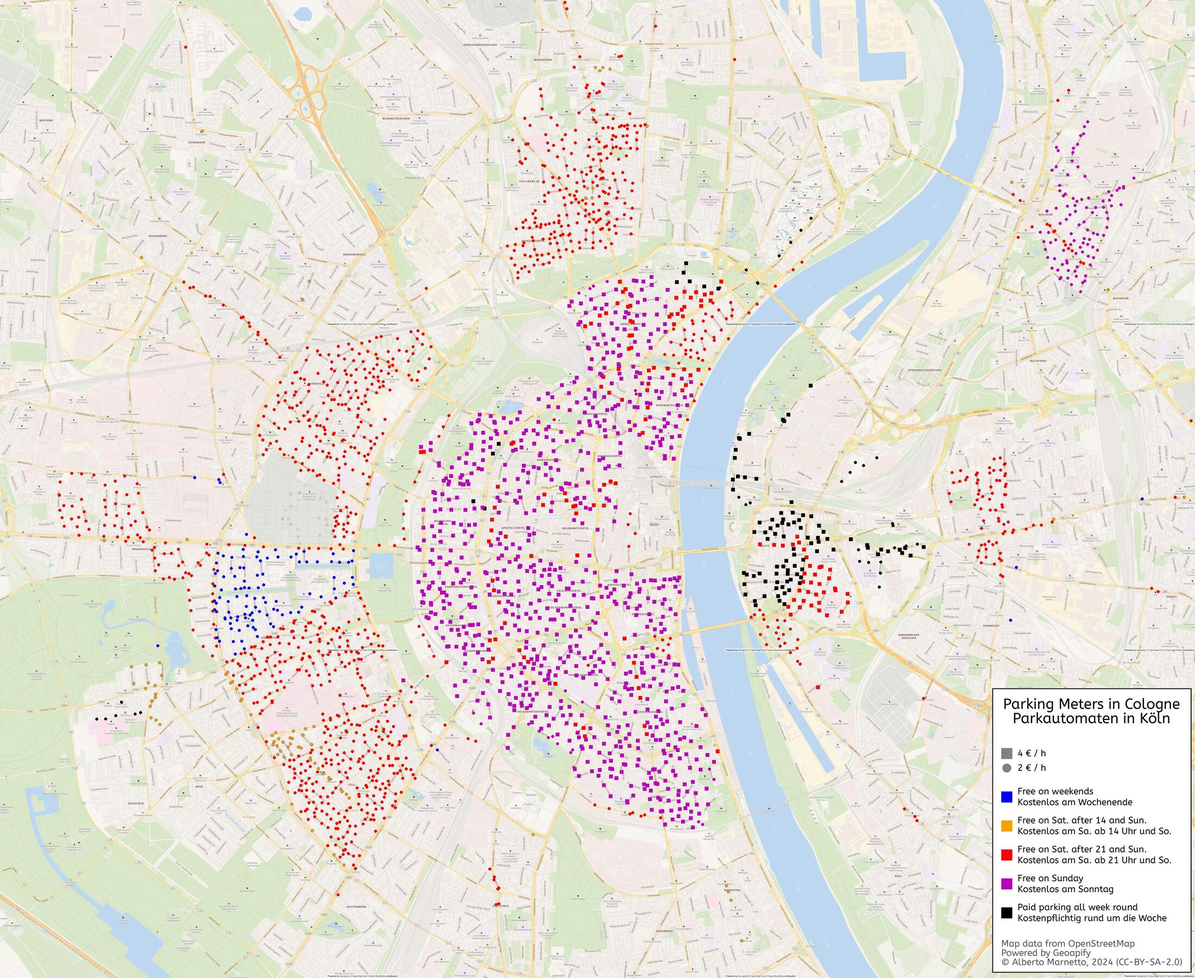
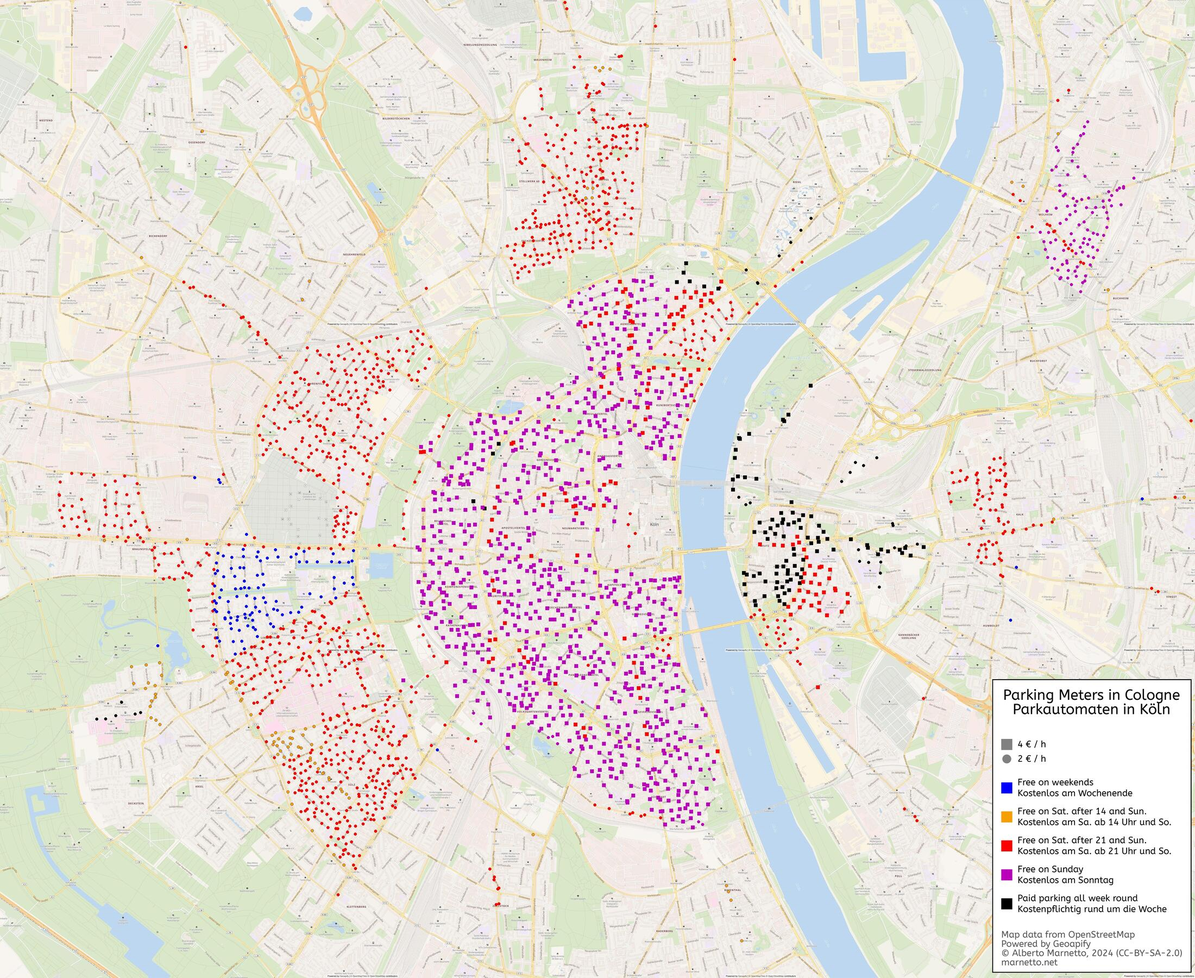
Cologne parking meters: BW map

Changed region(s): [[0.8345, 0.6844, 1.0, 0.9956]]

diff --git a/_posts/2024-12-20--cologne-parking-meters.md b/_posts/2024-12-20--cologne-parking-meters.md
@@ -25,6 +25,17 @@ Powered by <a href="https://www.geoapify.com/">Geoapify</a><br/>
 </figcaption>
 </center>
 
+<br/><br/>
+
+<center>
+<a href="/assets/2024-12-20--cologne-parking-meters/only-park-meters.jpg">
+<img src="/assets/2024-12-20--cologne-parking-meters/only-park-meters.jpg" alt="drawing" width="440" border="1"/>
+</a>
+<figcaption>A black and white view of the parkmeters, outlining the heart of the city.<br/>
+Thanks to <a href="https://anthonyhanswidjaja.com">Hans Widjaja</a> for the idea!
+</figcaption>
+</center>
+
 ### Intro
 
 Before Corona I used to have a car, to travel to Cologne frequently for [some](https://www.sorriso-sport-tanz.de/) [Brazilian](http://brasilonia.koelnrio.de/) [dance](https://forrodecolonia.com/) [party](https://forroindeutschland.wordpress.com/2010/11/11/ein-abend-beim-forro-koln/), to dislike paying for parking and to like maps. The pandemic freed me of many of these inconvenient habits, allowing me to spend more time at home in front of a screen instead of wasting time staying outside, exercising the body, having fun and making friends.
